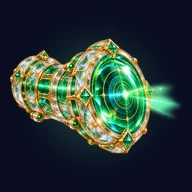
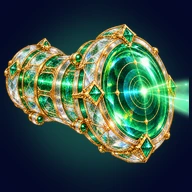
v119: larger Nano Lens core art
Claude-Session: https://claude.ai/code/session_01VAfnq769u6JX85bNNnzEvq

diff --git a/index.html b/index.html
@@ -1380,7 +1380,7 @@ function setHandle(v) {
      putReports(m)                     write MY reports
    Backends: BK_CLAUDE (account + shared store inside Claude). A Steam build adds BK_STEAM with the same eight methods, calling a server. */
 const SCHEMA = 1;       // shape of the stored documents; bump when a stored field changes meaning
-const BUILD = 'v118 · 25 Oct 2026';   // shown at the bottom of the main screen; bump with every release
+const BUILD = 'v119 · 25 Oct 2026';   // shown at the bottom of the main screen; bump with every release
 const GAME_VER = 4;     // bump when turrets, cores or stats change enough that old saved builds no longer mean the same thing
 const BK_CLAUDE = {
   name: 'claude', db: null, uid: null,
